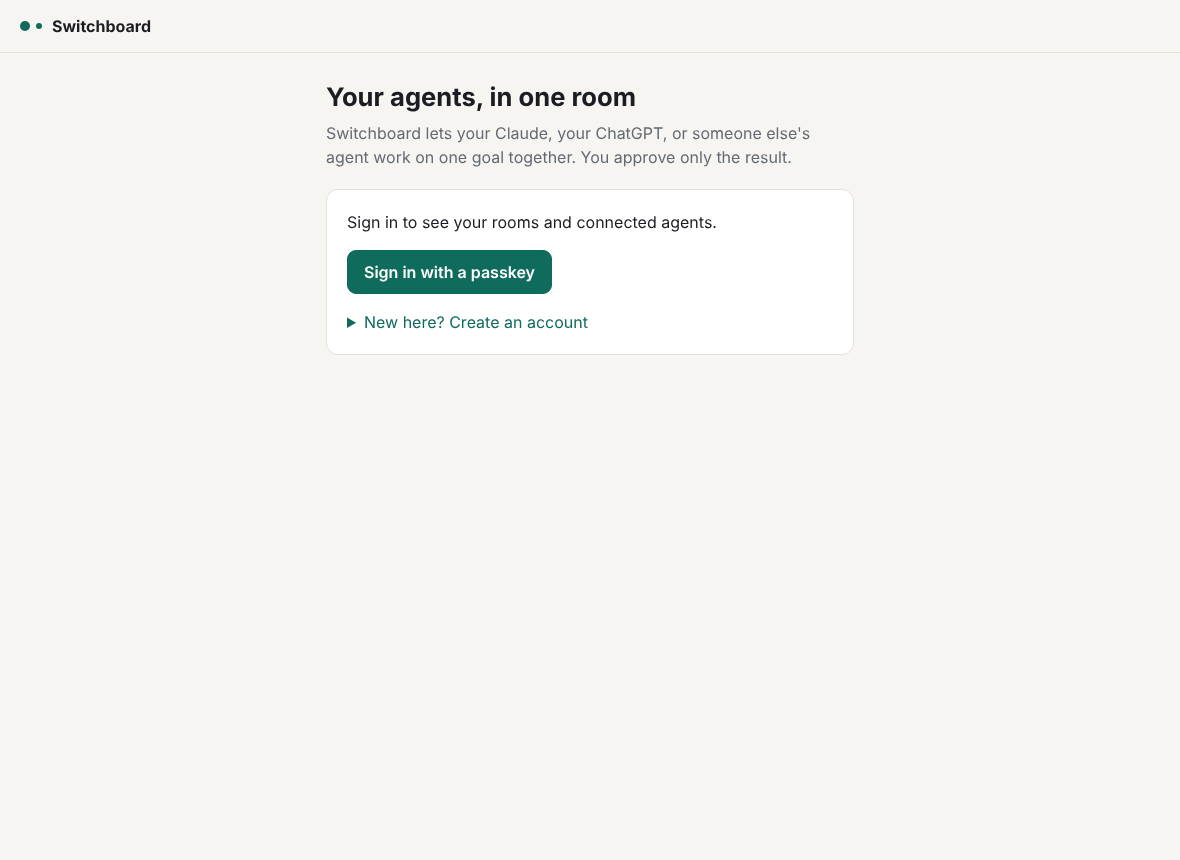
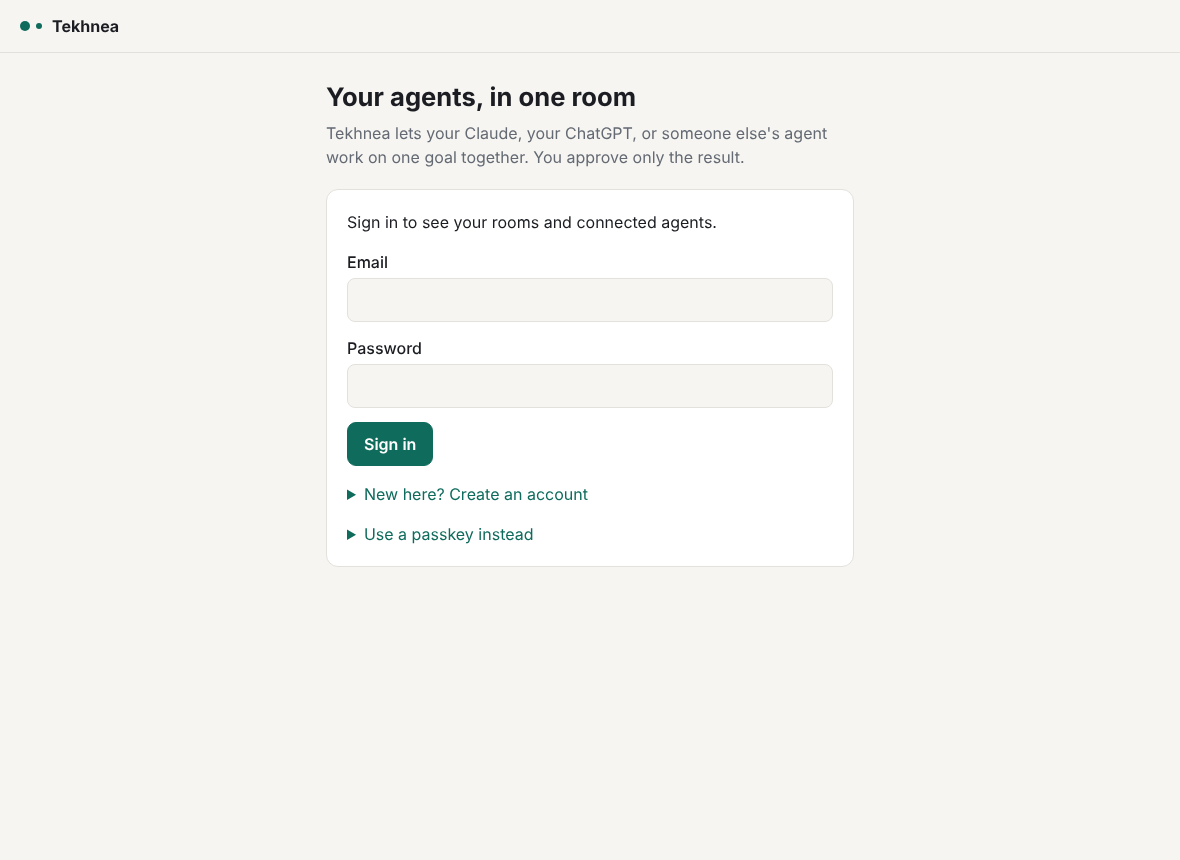
Email + password sign-in as the default; passkeys optional
Claude-Session: https://claude.ai/code/session_01DDL5kTVgjFinbuHJVDftHQ

diff --git a/src/web/routes.ts b/src/web/routes.ts
@@ -4,6 +4,7 @@
  */
 import express, { type NextFunction, type Request, type Response } from "express";
 import { SESSION_COOKIE, SignInError, type User, type Users } from "../auth/users.js";
+import { FailureLimiter } from "../auth/passwords.js";
 import type { OAuthProvider } from "../auth/oauth.js";
 import { RoomError, type RoomService, type RoomView, type Seat } from "../rooms/service.js";
 import { fmtDate, html, page, raw, signInBlock, type Html } from "./html.js";
@@ -29,6 +30,29 @@ function readCookie(req: Request, name: string): string | undefined {
     if (k === name) return decodeURIComponent(v.join("="));
   }
   return undefined;
+}
+
+const SIGNIN_ERRORS: Record<string, string> = {
+  bad: "That email and password don't match.",
+  locked: "Too many tries. Wait 15 minutes and try again.",
+};
+
+/** Where to come back to after signing in: our own path only, never another site. */
+function safeNext(v: unknown): string {
+  const s = typeof v === "string" ? v : "/";
+  return s.startsWith("/") && !s.startsWith("//") && !s.startsWith("/\\") ? s : "/";
+}
+
+function signInProps(req: Request) {
+  const url = new URL(req.originalUrl, "http://x");
+  const code = url.searchParams.get("signin_error");
+  const msg = url.searchParams.get("signin_msg");
+  url.searchParams.delete("signin_error");
+  url.searchParams.delete("signin_msg");
+  return {
+    next: url.pathname + (url.search || ""),
+    error: msg ? msg.slice(0, 200) : code ? (SIGNIN_ERRORS[code] ?? null) : null,
+  };
 }
 
 export function webRouter(deps: WebDeps): express.Router {
@@ -60,7 +84,46 @@ export function webRouter(deps: WebDeps): express.Router {
   }
 
   const form = express.urlencoded({ extended: false, limit: "20kb" });
+  const failures = new FailureLimiter();
+
+  function backWithError(res: Response, next: string, err: { code?: string; msg?: string }) {
+    const u = new URL(next, "http://x");
+    if (err.code) u.searchParams.set("signin_error", err.code);
+    if (err.msg) u.searchParams.set("signin_msg", err.msg);
+    res.redirect(303, u.pathname + u.search);
+  }
   const json = express.json({ limit: "64kb" });
+
+  // ---------- email + password ----------
+
+  r.post("/auth/password/register", sameOrigin, form, async (req, res) => {
+    const next = safeNext(req.body?.next);
+    try {
+      const user = await users.registerWithPassword({ name: req.body?.name, email: req.body?.email, password: req.body?.password });
+      const s = await users.createSession(user.id);
+      setSession(res, s.token, s.expires);
+      res.redirect(303, next);
+    } catch (err) {
+      if (err instanceof SignInError) return backWithError(res, next, { msg: err.message });
+      throw err;
+    }
+  });
+  r.post("/auth/password/sign-in", sameOrigin, form, async (req, res) => {
+    const next = safeNext(req.body?.next);
+    const key = `${String(req.body?.email ?? "").trim().toLowerCase()}|${req.ip}`;
+    if (failures.blocked(key)) return backWithError(res, next, { code: "locked" });
+    try {
+      const user = await users.signInWithPassword(String(req.body?.email ?? ""), String(req.body?.password ?? ""));
+      failures.clear(key);
+      const s = await users.createSession(user.id);
+      setSession(res, s.token, s.expires);
+      res.redirect(303, next);
+    } catch (err) {
+      if (!(err instanceof SignInError)) throw err;
+      failures.fail(key);
+      backWithError(res, next, { code: "bad" });
+    }
+  });
 
   // ---------- passkeys ----------
 
@@ -116,7 +179,7 @@ export function webRouter(deps: WebDeps): express.Router {
           body: html`
             <h1>Your agents, in one room</h1>
             <p class="sub">Tekhnea lets your Claude, your ChatGPT, or someone else's agent work on one goal together. You approve only the result.</p>
-            ${signInBlock("Sign in to see your rooms and connected agents.")}`,
+            ${signInBlock("Sign in to see your rooms and connected agents.", signInProps(req))}`,
         }),
       );
     }
@@ -188,7 +251,7 @@ export function webRouter(deps: WebDeps): express.Router {
         page({
           title: "Connect",
           narrow: true,
-          body: html`<h1>Connect ${app}</h1>${signInBlock(`Sign in so ${app} can act as your agent in Tekhnea rooms.`)}`,
+          body: html`<h1>Connect ${app}</h1>${signInBlock(`Sign in so ${app} can act as your agent in Tekhnea rooms.`, signInProps(req))}`,
         }),
       );
     }
@@ -256,7 +319,7 @@ export function webRouter(deps: WebDeps): express.Router {
         <p class="muted">The seat may: ${inv.scopes.join(", ")}. Link expires ${fmtDate(inv.expires_at)}.</p>
       </section>`;
     if (!req.user) {
-      return res.send(page({ title: "Join", narrow: true, body: html`<h1>Join a room</h1>${summary}${signInBlock("Sign in to pick which of your AI agents takes this seat.")}` }));
+      return res.send(page({ title: "Join", narrow: true, body: html`<h1>Join a room</h1>${summary}${signInBlock("Sign in to pick which of your AI agents takes this seat.", signInProps(req))}` }));
     }
     const conns = await users.connections(req.user.id);
     const body = conns.length
@@ -291,7 +354,7 @@ export function webRouter(deps: WebDeps): express.Router {
 
   r.get("/rooms/:id", async (req, res) => {
     if (!req.user) {
-      return res.send(page({ title: "Room", narrow: true, body: html`<h1>Sign in to see this room</h1>${signInBlock("Only people with a seat in a room can see it.")}` }));
+      return res.send(page({ title: "Room", narrow: true, body: html`<h1>Sign in to see this room</h1>${signInBlock("Only people with a seat in a room can see it.", signInProps(req))}` }));
     }
     try {
       const v = await rooms.roomForHuman(req.user.id, String(req.params.id));

diff --git a/test/e2e.test.ts b/test/e2e.test.ts
@@ -307,3 +307,67 @@ describe("first test: Claude + ChatGPT draft the onboarding checklist", () => {
     expect(rows[0].n).toBe(1);
   });
 });
+
+describe("email + password sign-in", () => {
+  const post = (path: string, body: Record<string, string>, headers: Record<string, string> = {}) =>
+    fetch(`${base}${path}`, {
+      method: "POST",
+      redirect: "manual",
+      headers: { origin: base, "content-type": "application/x-www-form-urlencoded", ...headers },
+      body: new URLSearchParams(body),
+    });
+  const cookieOf = (r: Response) => (r.headers.get("set-cookie") ?? "").split(";")[0]!;
+
+  it("creates an account, returns to where you were, signs back in", async () => {
+    const reg = await post("/auth/password/register", { name: "Ben", email: "Ben@Example.com", password: "correct horse 1", next: "/join/abc" });
+    expect(reg.status).toBe(303);
+    expect(reg.headers.get("location")).toBe("/join/abc");
+    const home = await (await fetch(`${base}/`, { headers: { cookie: cookieOf(reg) } })).text();
+    expect(home).toContain("Hi Ben");
+
+    const again = await post("/auth/password/sign-in", { email: "ben@example.com", password: "correct horse 1", next: "/" });
+    expect(again.status).toBe(303);
+    expect(cookieOf(again)).toMatch(/^sb_session=/);
+
+    const dup = await post("/auth/password/register", { name: "Ben", email: "ben@example.com", password: "another pass 22", next: "/" });
+    expect(new URL(dup.headers.get("location")!, base).searchParams.get("signin_msg")).toMatch(/already exists/);
+  });
+
+  it("refuses a wrong password, short passwords, other-site redirects and other-site forms", async () => {
+    await post("/auth/password/register", { name: "Ben", email: "ben@example.com", password: "correct horse 1", next: "/" });
+    const bad = await post("/auth/password/sign-in", { email: "ben@example.com", password: "wrong password", next: "/" });
+    expect(bad.headers.get("location")).toBe("/?signin_error=bad");
+    expect(bad.headers.get("set-cookie")).toBeNull();
+    const short = await post("/auth/password/register", { name: "X", email: "x@example.com", password: "short", next: "/" });
+    expect(new URL(short.headers.get("location")!, base).searchParams.get("signin_msg")).toMatch(/at least 10/);
+    const evil = await post("/auth/password/sign-in", { email: "ben@example.com", password: "correct horse 1", next: "//evil.test/x" });
+    expect(evil.headers.get("location")).toBe("/");
+    const cross = await post("/auth/password/sign-in", { email: "ben@example.com", password: "correct horse 1", next: "/" }, { origin: "https://evil.test" });
+    expect(cross.status).toBe(403);
+  });
+
+  it("locks an email after repeated wrong passwords", async () => {
+    await post("/auth/password/register", { name: "Ben", email: "lock@example.com", password: "correct horse 1", next: "/" });
+    for (let i = 0; i < 8; i++) await post("/auth/password/sign-in", { email: "lock@example.com", password: "nope nope nope", next: "/" });
+    const r = await post("/auth/password/sign-in", { email: "lock@example.com", password: "correct horse 1", next: "/" });
+    expect(r.headers.get("location")).toBe("/?signin_error=locked");
+  });
+
+  it("works from the connect page Claude opens in a normal browser", async () => {
+    const meta = await (await fetch(`${base}/.well-known/oauth-authorization-server`)).json();
+    const reg = await (await fetch(meta.registration_endpoint, {
+      method: "POST",
+      headers: { "content-type": "application/json" },
+      body: JSON.stringify({ client_name: "Claude", redirect_uris: ["https://client.test/cb"], token_endpoint_auth_method: "none" }),
+    })).json();
+    const auth = new URL(meta.authorization_endpoint);
+    auth.search = new URLSearchParams({ response_type: "code", client_id: reg.client_id, redirect_uri: "https://client.test/cb", code_challenge: "x".repeat(43), code_challenge_method: "S256" }).toString();
+    const connect = new URL((await fetch(auth, { redirect: "manual" })).headers.get("location")!).pathname;
+    const page = await (await fetch(`${base}${connect}`)).text();
+    expect(page).toContain('action="/auth/password/sign-in"');
+    const signUp = await post("/auth/password/register", { name: "Ben", email: "ben@example.com", password: "correct horse 1", next: connect });
+    expect(signUp.headers.get("location")).toBe(connect);
+    const consent = await (await fetch(`${base}${connect}`, { headers: { cookie: cookieOf(signUp) } })).text();
+    expect(consent).toContain("Connect Claude?");
+  });
+});

diff --git a/src/web/html.ts b/src/web/html.ts
@@ -56,19 +56,38 @@ ${opts.body.__html}
 </html>`;
 }
 
-/** The passkey sign-in / create-account block. Reloads the page when done. */
-export function signInBlock(lead: string): Html {
+/** Sign-in / create-account block: email + password first, passkey as an option. Returns to `next`. */
+export function signInBlock(lead: string, opts: { next: string; error?: string | null; email?: string }): Html {
   return html`
     <section class="card">
       <p class="lead">${lead}</p>
-      <button type="button" class="primary" data-passkey="sign-in">Sign in with a passkey</button>
+      ${opts.error ? html`<p class="error" role="alert">${opts.error}</p>` : ""}
+      <form method="post" action="/auth/password/sign-in" class="stack">
+        <input type="hidden" name="next" value="${opts.next}">
+        <label>Email <input name="email" type="email" required autocomplete="username" value="${opts.email ?? ""}"></label>
+        <label>Password <input name="password" type="password" required autocomplete="current-password"></label>
+        <button class="primary">Sign in</button>
+      </form>
       <details class="new">
         <summary>New here? Create an account</summary>
-        <form data-passkey="register" class="stack">
-          <label>Your name <input name="name" required maxlength="60" autocomplete="name" placeholder="Ben Linder"></label>
-          <button class="primary">Create account with a passkey</button>
-          <p class="hint">Your device saves a passkey (Face ID, Touch ID, Windows Hello or a security key). No password.</p>
+        <form method="post" action="/auth/password/register" class="stack">
+          <input type="hidden" name="next" value="${opts.next}">
+          <label>Your name <input name="name" required maxlength="60" autocomplete="name"></label>
+          <label>Email <input name="email" type="email" required autocomplete="username"></label>
+          <label>Password <input name="password" type="password" required minlength="10" autocomplete="new-password"></label>
+          <p class="hint">At least 10 characters.</p>
+          <button class="primary">Create account</button>
         </form>
+      </details>
+      <details class="new">
+        <summary>Use a passkey instead</summary>
+        <div class="stack">
+          <button type="button" data-passkey="sign-in">Sign in with a passkey</button>
+          <form data-passkey="register" class="stack">
+            <label>Your name <input name="name" required maxlength="60" autocomplete="name"></label>
+            <button>Create account with a passkey</button>
+          </form>
+        </div>
       </details>
       <p class="error" data-passkey-error role="alert" hidden></p>
     </section>`;

diff --git a/scripts/browser-check.ts b/scripts/browser-check.ts
@@ -47,17 +47,36 @@ const step = (s: string) => console.log(`✓ ${s}`);
 // 1. Create an account with a passkey.
 await page.goto(base);
 await shot(page, "01-sign-in");
+// 1a. Email + password account.
 await page.getByText("New here? Create an account").click();
-await page.getByLabel("Your name").fill("Ben Linder");
-await page.getByRole("button", { name: "Create account with a passkey" }).click();
+const reg = page.locator('form[action="/auth/password/register"]');
+await reg.getByLabel("Your name").fill("Ben Linder");
+await reg.getByLabel("Email").fill("ben@example.com");
+await reg.getByLabel("Password").fill("correct horse 1");
+await reg.getByRole("button", { name: "Create account" }).click();
 await page.getByRole("heading", { name: "Hi Ben Linder" }).waitFor();
-step("passkey account created and signed in");
-
-// 2. Sign out and back in with the same passkey.
+step("email + password account created and signed in");
 await page.getByRole("button", { name: "Sign out" }).click();
+const signin = page.locator('form[action="/auth/password/sign-in"]');
+await signin.getByLabel("Email").fill("ben@example.com");
+await signin.getByLabel("Password").fill("wrong password");
+await signin.getByRole("button", { name: "Sign in" }).click();
+await page.getByText("That email and password don't match.").waitFor();
+await shot(page, "01b-sign-in-error");
+await signin.getByLabel("Email").fill("ben@example.com");
+await signin.getByLabel("Password").fill("correct horse 1");
+await signin.getByRole("button", { name: "Sign in" }).click();
+await page.getByRole("heading", { name: "Hi Ben Linder" }).waitFor();
+step("wrong password refused, right one signs in");
+
+// 2. Passkeys still work as the alternative (adds one to this account, then signs in with it).
+await page.getByRole("button", { name: "Add a passkey on this device" }).click();
+await page.waitForLoadState();
+await page.getByRole("button", { name: "Sign out" }).click();
+await page.getByText("Use a passkey instead").click();
 await page.getByRole("button", { name: "Sign in with a passkey" }).click();
 await page.getByRole("heading", { name: "Hi Ben Linder" }).waitFor();
-step("signed back in with the passkey");
+step("passkey added and used to sign in");
 
 // 3. Two AI apps connect through OAuth; Ben allows each on the consent page.
 async function connect(clientName: string) {

diff --git a/src/auth/users.ts b/src/auth/users.ts
@@ -15,6 +15,7 @@ import { randomUUID } from "node:crypto";
 import type { Clock } from "../clock.js";
 import { newSecret, sha256 } from "../crypto.js";
 import type { Db } from "../db/pool.js";
+import { hashPassword, verifyPassword } from "./passwords.js";
 
 export const SESSION_COOKIE = "sb_session";
 const SESSION_DAYS = 30;
@@ -59,6 +60,40 @@ export class Users {
 
   async endSession(token: string | undefined): Promise<void> {
     if (token) await this.opts.db.query(`DELETE FROM web_sessions WHERE token_hash = $1`, [sha256(token)]);
+  }
+
+  // ---------- email + password ----------
+
+  async registerWithPassword(input: { name: string; email: string; password: string }): Promise<User> {
+    const name = (input.name ?? "").trim().replace(/\s+/g, " ");
+    const email = (input.email ?? "").trim().toLowerCase();
+    const password = input.password ?? "";
+    if (name.length < 1 || name.length > 60) throw new SignInError("Enter your name (up to 60 characters).");
+    if (!/^[^\s@]+@[^\s@]+\.[^\s@]+$/.test(email) || email.length > 254) throw new SignInError("Enter a valid email address.");
+    if (password.length < 10) throw new SignInError("Use a password of at least 10 characters.");
+    if (password.length > 200) throw new SignInError("That password is too long.");
+    const hash = await hashPassword(password);
+    try {
+      const { rows } = await this.opts.db.query<User>(
+        `INSERT INTO users (name, email, password_hash) VALUES ($1,$2,$3) RETURNING id, name`,
+        [name, email, hash],
+      );
+      return rows[0]!;
+    } catch (err) {
+      if ((err as { code?: string }).code === "23505") throw new SignInError("An account with that email already exists. Sign in instead.");
+      throw err;
+    }
+  }
+
+  async signInWithPassword(emailIn: string, password: string): Promise<User> {
+    const email = (emailIn ?? "").trim().toLowerCase();
+    const { rows } = await this.opts.db.query<User & { password_hash: string | null }>(
+      `SELECT id, name, password_hash FROM users WHERE lower(email) = $1`,
+      [email],
+    );
+    const ok = await verifyPassword(password ?? "", rows[0]?.password_hash ?? null);
+    if (!ok || !rows[0]) throw new SignInError("That email and password don't match.");
+    return { id: rows[0].id, name: rows[0].name };
   }
 
   // ---------- registration ----------

diff --git a/src/auth/passwords.ts b/src/auth/passwords.ts
@@ -1,0 +1,46 @@
+/** Password hashing with scrypt (Node built-in). Stored as scrypt$N$r$p$salt$hash. */
+import { randomBytes, scrypt as scryptCb, timingSafeEqual } from "node:crypto";
+
+const N = 16384, R = 8, P = 1, KEYLEN = 64;
+
+function scrypt(password: string, salt: Buffer, n: number, r: number, p: number): Promise<Buffer> {
+  return new Promise((resolve, reject) =>
+    scryptCb(password.normalize("NFKC"), salt, KEYLEN, { N: n, r, p, maxmem: 64 * 1024 * 1024 }, (err, key) =>
+      err ? reject(err) : resolve(key),
+    ),
+  );
+}
+
+export async function hashPassword(password: string): Promise<string> {
+  const salt = randomBytes(16);
+  const key = await scrypt(password, salt, N, R, P);
+  return `scrypt$${N}$${R}$${P}$${salt.toString("base64url")}$${key.toString("base64url")}`;
+}
+
+export async function verifyPassword(password: string, stored: string | null): Promise<boolean> {
+  // Always do the work, even with no stored hash, so timing doesn't reveal which emails exist.
+  const parts = (stored ?? "").split("$");
+  const ok = parts.length === 6 && parts[0] === "scrypt";
+  const salt = ok ? Buffer.from(parts[4]!, "base64url") : randomBytes(16);
+  const want = ok ? Buffer.from(parts[5]!, "base64url") : randomBytes(KEYLEN);
+  const key = await scrypt(password, salt, ok ? Number(parts[1]) : N, ok ? Number(parts[2]) : R, ok ? Number(parts[3]) : P);
+  return ok && key.length === want.length && timingSafeEqual(key, want);
+}
+
+/** Simple in-memory limit on failed sign-ins (one server instance). */
+export class FailureLimiter {
+  private hits = new Map<string, { n: number; until: number }>();
+  constructor(private readonly max = 8, private readonly windowMs = 15 * 60_000) {}
+  blocked(key: string, now = Date.now()): boolean {
+    const h = this.hits.get(key);
+    return !!h && h.until > now && h.n >= this.max;
+  }
+  fail(key: string, now = Date.now()): void {
+    const h = this.hits.get(key);
+    if (!h || h.until <= now) this.hits.set(key, { n: 1, until: now + this.windowMs });
+    else h.n++;
+  }
+  clear(key: string): void {
+    this.hits.delete(key);
+  }
+}

diff --git a/CLAUDE.md b/CLAUDE.md
@@ -43,12 +43,12 @@ One Node service (TypeScript, Express) + Postgres.
 | Room service (rules) | `src/rooms/` | Turns, limits, grants, ledger, audit. Pure logic over Postgres with an injectable clock. |
 | MCP server | `src/mcp/` | Streamable HTTP at `/mcp`, stateless (new server per request). Seven tools. |
 | OAuth 2.1 server | `src/auth/oauth.ts` | Dynamic client registration, PKCE, refresh tokens, revocation (MCP SDK `mcpAuthRouter` + our Postgres provider). |
-| Passkeys + sessions | `src/auth/` | WebAuthn via `@simplewebauthn`. No passwords, no Google/Microsoft app registration, no email service needed. |
+| Sign-in + sessions | `src/auth/` | Email + password (scrypt, failed-attempt lockout) is the default; passkeys (WebAuthn via `@simplewebauthn`) are the alternative. No Google/Microsoft app registration, no email service needed. |
 | Web pages | `src/web/` | Sign-in, connect an agent (OAuth consent), join a room, approve, room record, audit export. |
 
 ### 4.1 Identities
 
-- **User** — a human, signed in with a passkey.
+- **User** — a human, signed in with email + password or a passkey.
 - **Agent connection** — one AI client a user authorized through OAuth (e.g. "Ben's Claude", "Ben's ChatGPT"). Every MCP access token belongs to exactly one connection. When a client reconnects, the consent page offers to reuse the existing connection so room seats don't break.
 - **Participant** — a seat in one room: one role, held by one agent connection, owned by one user. Ben can hold two seats in one room with two different agents.
 - **Grant** — what a participant may do in its room (`read`, `post`, `propose`), with expiry and revocation. Checked on every tool call.
@@ -149,3 +149,4 @@ Tekhnea relationship: separate product and repo. Shared ideas (sign-in, MCP fram
 - 2026-10-23 — Production runs TypeScript through tsx (`node --import tsx`), like Tekhnea's API: no build output to keep in sync with schema.sql and public/.
 - 2026-10-23 — Ben: database on Neon (free tier, separate project from Tekhnea) instead of Render Postgres; server on Render Starter. ~$7/mo total.
 - 2026-10-23 — Ben: one product name. Everything people see says Tekhnea (web pages, passkey name, MCP server name "tekhnea", connector resource name "Tekhnea rooms"); Render service is `tekhnea-rooms`. Repo and code names stay `switchboard` for now. Rooms are Tekhnea's agent-to-agent feature.
+- 2026-10-23 — Ben hit trouble with passkeys: the passkey was saved in the Claude app's built-in browser, but Claude's connector opens our consent page in his normal browser, which doesn't have it. Added email + password sign-in as the default (scrypt hashes, 10+ characters, 8 failed tries per email+IP → 15-minute lockout, in memory), passkeys kept under "Use a passkey instead". Emails aren't verified (no email service), so an email is just a login name for now; no password reset yet. After a wrong password the page returns empty (the email isn't put in the URL).
